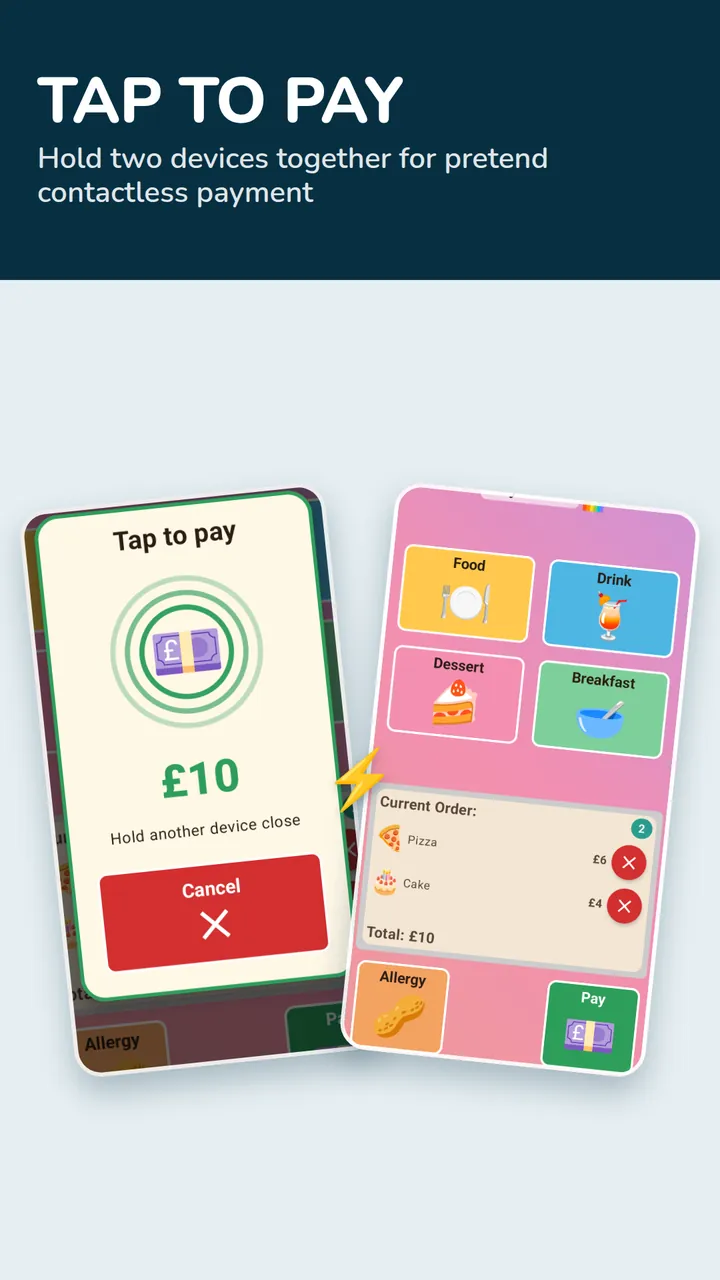
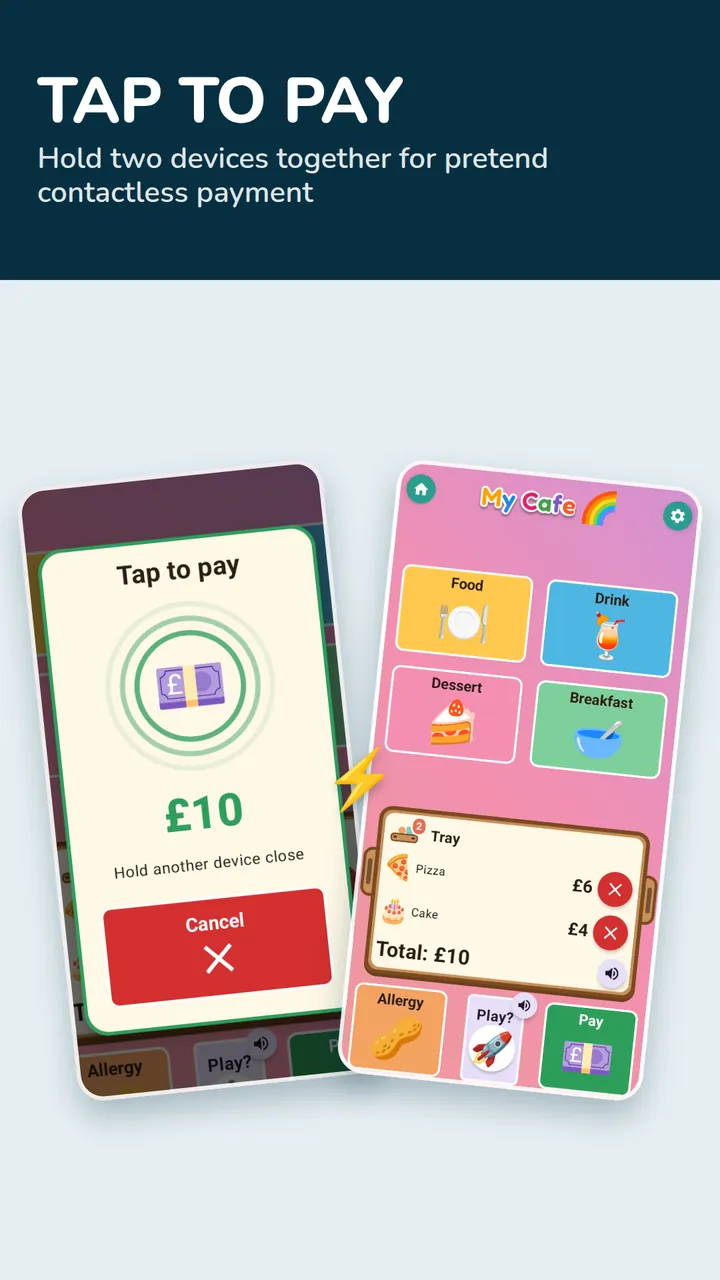
Update Kids Pretend Shop for 2.0: customers, spoken words and age bands
Describe the ad-free app in the privacy policy, as live since 1.5.

diff --git a/privacy/pretend-shop/index.html b/privacy/pretend-shop/index.html
@@ -25,9 +25,9 @@
 <main class="wrap policy">
 
 <h1>Kids Pretend Shop — Privacy Policy</h1>
-<p class="policy-meta">Effective date: 26 August 2026</p>
+<p class="policy-meta">Effective date: 29 September 2026</p>
 
-<p>Byron Ludwig ("I", "me", "my") built the <strong>Pretend Shop</strong> app as a free, ad-supported application. This page is used to inform visitors and users regarding my policies with the collection, use, and disclosure of personal information.</p>
+<p>Byron Ludwig ("I", "me", "my") built the <strong>Pretend Shop</strong> app as a free application with no advertising. This page is used to inform visitors and users regarding my policies with the collection, use, and disclosure of personal information.</p>
 
 <h2>Children's Privacy</h2>
 <p>Pretend Shop is designed for children. I do not knowingly collect personal information from children or any other users. The app does not require account creation, login, or any form of registration. I comply with the Children's Online Privacy Protection Act (COPPA) and applicable child-safety regulations.</p>
@@ -38,39 +38,16 @@
 <p>All app data (such as store name preferences, display settings, and shopping cart contents) is stored <strong>locally on your device only</strong> and is never sent to any server.</p>
 
 <h2>Third-Party Services</h2>
-<p>The app uses the following third-party services that may collect information:</p>
-
-<h3>Google AdMob</h3>
-<p>Pretend Shop displays banner advertisements provided by Google AdMob. Because the app is directed at children, ads are served in <strong>child-directed mode</strong> in accordance with COPPA. This means:</p>
-<ul>
-  <li>No personalised or behavioural advertising is shown</li>
-  <li>Only contextual, age-appropriate ads rated "G" (General audiences) are displayed</li>
-  <li>Interest-based advertising and remarketing are disabled</li>
-</ul>
-<p>Even in child-directed mode, Google may collect certain technical data such as:</p>
-<ul>
-  <li>Device type and model</li>
-  <li>Operating system version</li>
-  <li>IP address (used for general location-based ad serving, not stored for profiling)</li>
-  <li>Ad interaction data (e.g. whether an ad was viewed or clicked)</li>
-</ul>
-<p>This data is collected and processed by Google under their own privacy policies. For more information, see the <a href="https://policies.google.com/privacy" rel="noopener">Google Privacy Policy</a> and <a href="https://policies.google.com/technologies/ads" rel="noopener">Google Advertising Policies</a>.</p>
-<p>Users may purchase an in-app option to <strong>remove all advertisements</strong>, which stops all AdMob data collection within the app.</p>
-
-<h3>Advertising Consent (EEA, UK and Switzerland)</h3>
-<p>The app uses <strong>Google's User Messaging Platform (UMP)</strong>, a Google-certified consent management platform, to obtain consent where it is legally required.</p>
-<p>If you are located in the European Economic Area, the United Kingdom or Switzerland, a consent message is displayed before any advertisement is requested. <strong>No ad is loaded, and the Google Mobile Ads SDK is not started, until you have made a choice.</strong> If you decline, no advertisement is shown and no ad-related data is collected.</p>
-<p>Your choice is stored locally on your device. It is not sent to me, and I have no access to it.</p>
-<p>You can review, change, or withdraw your choice at any time from <strong>Settings &rarr; Ad Privacy Options</strong> within the app. This option is placed behind the grown-ups-only gate and appears only where a consent choice applies to you.</p>
-<p>Regardless of the choice made, advertising in this app is always served in child-directed mode, so no personalised or interest-based ads are shown.</p>
+<p>The app uses the following third-party service:</p>
 
 <h3>Google Play Billing</h3>
-<p>The app offers in-app purchases (to remove ads and to unlock additional stores) processed through Google Play Billing. The purchase transaction is handled entirely by Google Play. I do not receive, store, or have access to any payment or financial information. Google's handling of purchase data is governed by the <a href="https://policies.google.com/privacy" rel="noopener">Google Privacy Policy</a>.</p>
+<p>The app offers an in-app purchase (to unlock additional stores) processed through Google Play Billing. The purchase transaction is handled entirely by Google Play. I do not receive, store, or have access to any payment or financial information. Google's handling of purchase data is governed by the <a href="https://policies.google.com/privacy" rel="noopener">Google Privacy Policy</a>.</p>
+<p>The app contains <strong>no advertising</strong> and no advertising or analytics SDKs.</p>
 
 <h2>Permissions</h2>
 <p>The app requests the following device permissions:</p>
 <ul>
-  <li><strong>Internet</strong> - Required to display advertisements via Google AdMob. No personal data is sent from the app; see the "Google AdMob" section above for details on data collected by the ad service.</li>
+  <li><strong>Internet</strong> - Used by Google Play Billing to complete and verify in-app purchases. No personal data is sent from the app.</li>
   <li><strong>NFC</strong> - Used solely for the tap-to-pay pretend play feature, which simulates contactless payment between two devices. No data is transmitted or stored via NFC beyond the in-app game interaction.</li>
   <li><strong>Vibrate</strong> - Used for haptic feedback during gameplay. No data is collected.</li>
 </ul>
@@ -82,7 +59,7 @@
 <p>Although no personal data is collected, I value your trust and strive to use commercially acceptable means of protecting any information within the app. Please be aware that no method of electronic transmission or storage is 100% secure.</p>
 
 <h2>Links to Other Sites</h2>
-<p>This app does not contain links to other sites. However, third-party advertisements displayed by AdMob may contain links to external websites. I have no control over and assume no responsibility for the content or privacy practices of any third-party sites or services.</p>
+<p>This app does not contain links to other sites.</p>
 <p>I encourage parents and guardians to supervise their children's use of the app.</p>
 
 <h2>Changes to This Privacy Policy</h2>

diff --git a/index.html b/index.html
@@ -121,28 +121,29 @@
 
       <p class="blurb">
         Kids love playing shop. Pretend Shop turns the device into their shop:
-        take orders, fill the basket, watch the total add up, and "pay" at the till —
-        big friendly buttons, fun sounds and a satisfying buzz on every tap.
+        serve customers who say what they want, fill the tray or bag, watch the total
+        add up, and "pay" at the till or by holding two devices together — big friendly
+        buttons, every word read aloud and a satisfying buzz on every tap.
       </p>
 
       <ul class="features">
-        <li><span aria-hidden="true">🏪</span><strong>Three shops to run</strong>The Cafe, the Toy Store and the Sports Store, each with its own aisles. More on the way.</li>
-        <li><span aria-hidden="true">💷</span><strong>Real little sums</strong>Every item has a price and the total grows as the basket fills.</li>
-        <li><span aria-hidden="true">📲</span><strong>Tap to pay</strong>Hold two devices together for a pretend contactless payment.</li>
+        <li><span aria-hidden="true">🏪</span><strong>Three shops to run</strong>The Cafe, the Toy Store and the Sports Store, and more on the way. They pick the name, the logo and the background.</li>
+        <li><span aria-hidden="true">🙋</span><strong>Customers come to shop</strong>Tap Play and a customer says their order out loud. Missed something? They say what they still want. No timers, no scores.</li>
+        <li><span aria-hidden="true">🔊</span><strong>Hear every word</strong>Tap the speaker beside an item, shelf or total to hear it, so children who can't read yet can play on their own. Works offline.</li>
+        <li><span aria-hidden="true">💷</span><strong>Little or Big</strong>Little (3–4) is a picture-only shop. Big (5+) adds names, prices and a total that grows as the order fills.</li>
         <li><span aria-hidden="true">🥜</span><strong>What's in my food?</strong>Filter the menu by gluten, dairy, eggs or nuts. A gentle way in to talking about allergies.</li>
-        <li><span aria-hidden="true">🦄</span><strong>Make it their shop</strong>They pick the name, the logo and the background.</li>
-        <li><span aria-hidden="true">🔒</span><strong>Made for little shopkeepers</strong>One-off ad-free unlock, no subscriptions, purchases behind a parent gate.</li>
+        <li><span aria-hidden="true">🔒</span><strong>Made for little shopkeepers</strong>No ads, no subscriptions. One purchase unlocks the Toy Store and Sports Store, behind a parent gate.</li>
       </ul>
 
       <div class="shots" role="group" aria-label="Kids Pretend Shop screenshots" tabindex="0">
-        <img src="assets/shots/pretend-shop/01.webp" alt="The cafe counter with Food, Drink, Dessert and Breakfast buttons and a current order" width="720" height="1280" loading="lazy">
-        <img src="assets/shots/pretend-shop/02.webp" alt="Taking an order — pizza, pasta, hot dog and fish fingers with prices and allergy tags" width="720" height="1280" loading="lazy">
-        <img src="assets/shots/pretend-shop/03.webp" alt="The basket adding up to a ten pound total, with Allergy and Pay buttons" width="720" height="1280" loading="lazy">
-        <img src="assets/shots/pretend-shop/04.webp" alt="Two phones held together for a pretend tap-to-pay payment" width="720" height="1280" loading="lazy">
+        <img src="assets/shots/pretend-shop/01.webp" alt="The cafe counter with Food, Drink, Dessert and Breakfast buttons and an order in the tray" width="720" height="1280" loading="lazy">
+        <img src="assets/shots/pretend-shop/02.webp" alt="Bella the Bear's order card asking for pizza, a cupcake and berry juice, beside a tray adding up to ten pounds" width="720" height="1280" loading="lazy">
+        <img src="assets/shots/pretend-shop/03.webp" alt="A shelf of chips, pizza and spaghetti, each with a speaker button to hear its name" width="720" height="1280" loading="lazy">
+        <img src="assets/shots/pretend-shop/04.webp" alt="A ten pound tap-to-pay screen next to the cafe, for a pretend contactless payment" width="720" height="1280" loading="lazy">
         <img src="assets/shots/pretend-shop/05.webp" alt="The cafe, toy shop and sports shop side by side" width="720" height="1280" loading="lazy">
         <img src="assets/shots/pretend-shop/06.webp" alt="The allergy picker with dairy and nuts ticked, hiding 21 items from the menu" width="720" height="1280" loading="lazy">
         <img src="assets/shots/pretend-shop/07.webp" alt="Two customised shops — a cafe on a cloudy sky background and a sports store on bright blue" width="720" height="1280" loading="lazy">
-        <img src="assets/shots/pretend-shop/08.webp" alt="Made for little shopkeepers — a one-off ad-free unlock, no subscriptions and parent-gated purchases" width="720" height="1280" loading="lazy">
+        <img src="assets/shots/pretend-shop/08.webp" alt="Made for little shopkeepers — no ads, no subscriptions and parent-gated purchases" width="720" height="1280" loading="lazy">
       </div>
 
       <a class="badge" href="https://play.google.com/store/apps/details?id=com.byronludwig.pretendplay" rel="noopener">
